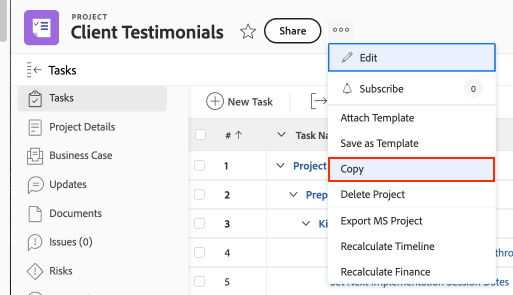
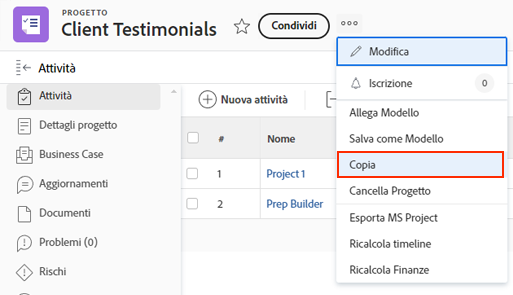
Updated by task 'AUTO_HANDOFF_1728920003099'  Changes for core/source commit https://git.corp.adobe.com/AdobeDocs/workfront-learn.en/commit/864198f778343634d28b304a0154c7041468faec

diff --git a/help/manage-work/manage-projects/copy-an-existing-project.md b/help/manage-work/manage-projects/copy-an-existing-project.md
@@ -12,15 +12,15 @@ recommendations: noDisplay,noCatalog
 jira: KT-10155
 exl-id: 90a87fef-70e9-42fc-ac55-415980ef32c7
 source-git-commit: 434069d95777eef7739917d8761c03a8e64b8433
-workflow-type: tm+mt
+workflow-type: ht
 source-wordcount: '155'
-ht-degree: 89%
+ht-degree: 100%
 
 ---
 
 # Copia un progetto esistente
 
-A volte, invece di utilizzare un modello per creare un progetto, è sufficiente copiare un progetto per un altro utilizzo occasionale. A questo scopo, devi disporre di una licenza Standard, con accesso in Modifica e Crea ai progetti.
+A volte, invece di utilizzare un modello per creare un progetto, è sufficiente copiare un progetto per un altro utilizzo occasionale. A questo scopo, è necessario disporre di una licenza standard, con accesso Modifica e Crea ai progetti.
 
 Passa al progetto che desideri copiare e fai clic sul menu a 3 punti accanto al nome del progetto. Quindi seleziona Copia.
 

diff --git a/help/manage-work/create-and-manage-project-templates/share-a-project-template.md b/help/manage-work/create-and-manage-project-templates/share-a-project-template.md
@@ -1,6 +1,6 @@
 ---
 title: Condividere un modello di progetto
-description: Scopri come condividere un modello di progetto e come condividere i progetti creati da un modello.
+description: Scopri come condividere un modello di progetto e i progetti creati da un modello.
 activity: use
 feature: Work Management
 thumbnail: 335211.jpeg
@@ -13,9 +13,9 @@ jira: KT-8951
 exl-id: 9179fbc8-1000-4215-b2c3-de617c7f1d80
 doc-type: video
 source-git-commit: 434069d95777eef7739917d8761c03a8e64b8433
-workflow-type: tm+mt
+workflow-type: ht
 source-wordcount: '77'
-ht-degree: 79%
+ht-degree: 100%
 
 ---
 

diff --git a/help/manage-work/create-and-manage-project-templates/create-a-project-directly-from-a-template.md b/help/manage-work/create-and-manage-project-templates/create-a-project-directly-from-a-template.md
@@ -12,7 +12,7 @@ recommendations: noDisplay,noCatalog
 jira: KT-10156
 exl-id: 1f44eb26-98bf-4723-b162-27a4f8cb8177
 source-git-commit: 434069d95777eef7739917d8761c03a8e64b8433
-workflow-type: tm+mt
+workflow-type: ht
 source-wordcount: '197'
 ht-degree: 100%
 

diff --git a/help/manage-work/create-and-manage-project-templates/deactivate-a-project-template.md b/help/manage-work/create-and-manage-project-templates/deactivate-a-project-template.md
@@ -14,7 +14,7 @@ jira: KT-14749
 doc-type: video
 exl-id: ad9b9e1e-3d8c-4a0f-8f73-e204047485a6
 source-git-commit: 434069d95777eef7739917d8761c03a8e64b8433
-workflow-type: tm+mt
+workflow-type: ht
 source-wordcount: '125'
 ht-degree: 100%
 

diff --git a/help/manage-work/create-and-manage-project-templates/create-a-project-template.md b/help/manage-work/create-and-manage-project-templates/create-a-project-template.md
@@ -14,7 +14,7 @@ jira: KT-8950
 exl-id: 1f706148-c001-42a8-a675-48e91d445f0b
 doc-type: video
 source-git-commit: 434069d95777eef7739917d8761c03a8e64b8433
-workflow-type: tm+mt
+workflow-type: ht
 source-wordcount: '377'
 ht-degree: 100%
 

diff --git a/help/manage-work/create-and-manage-project-templates/edit-the-project-team-in-a-project-template.md b/help/manage-work/create-and-manage-project-templates/edit-the-project-team-in-a-project-template.md
@@ -14,7 +14,7 @@ jira: KT-14755
 doc-type: video
 exl-id: 9a92a0a5-5ea3-428d-a81a-2d217e6e3d59
 source-git-commit: 434069d95777eef7739917d8761c03a8e64b8433
-workflow-type: tm+mt
+workflow-type: ht
 source-wordcount: '84'
 ht-degree: 100%
 
